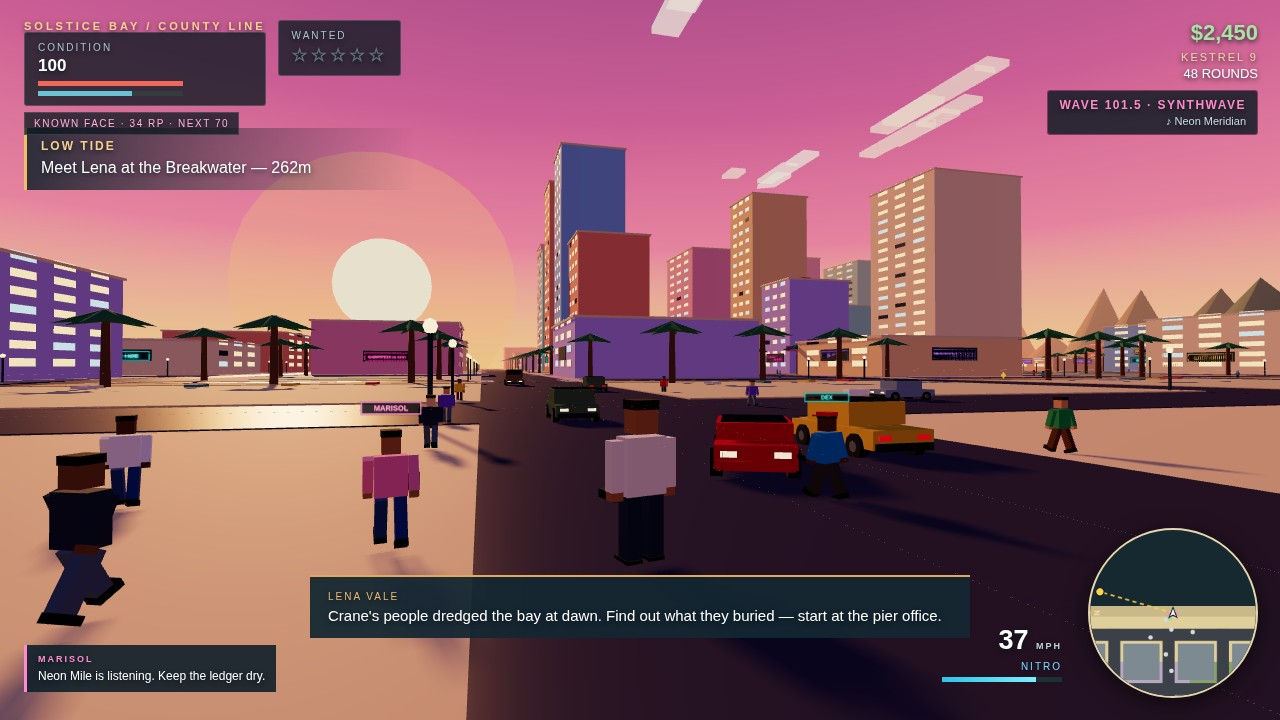
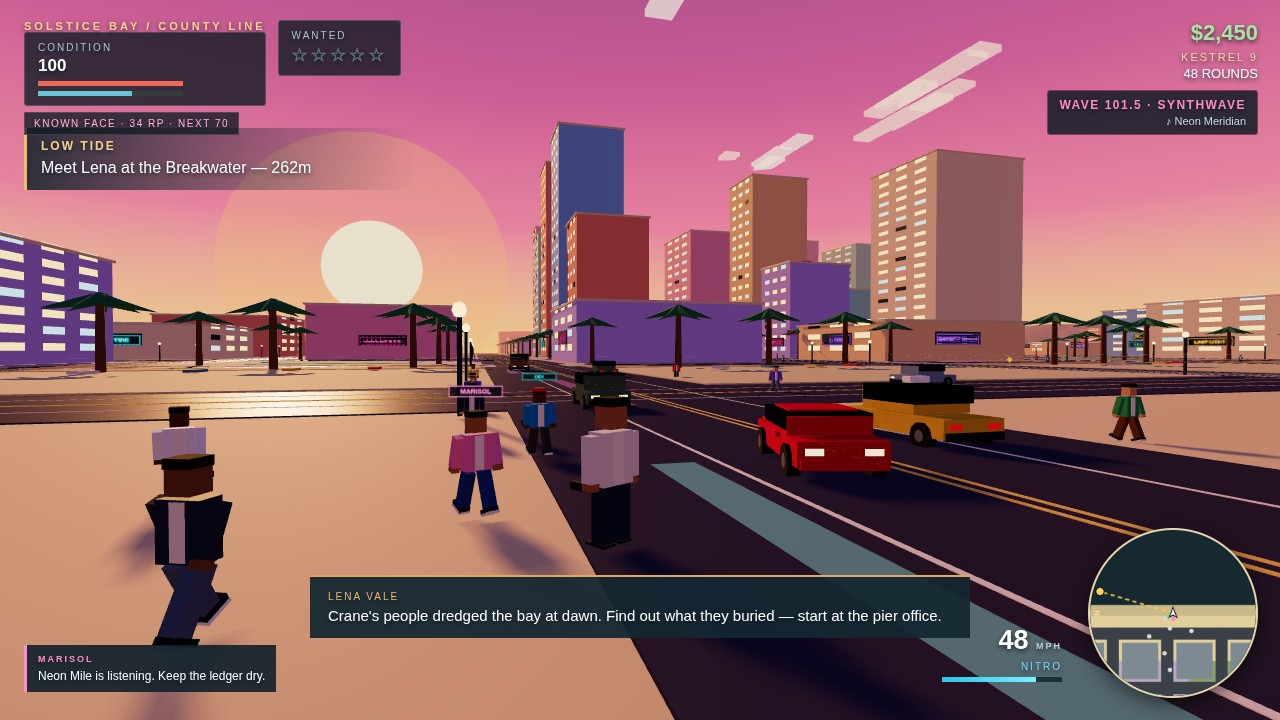
v4 visual overhaul: road markings, wet neon reflections, sculpted vehicles, harbor ridge skyline

diff --git a/game/src/city.js b/game/src/city.js
@@ -47,18 +47,38 @@ export function makeCity(scene){
  // polished-road streaks: narrow, translucent neon catches on the busiest boulevard
  // make wet pavement visible in the contact sheet without obscuring traffic silhouettes
  const roadGlow=[0xff4fa0,0x3fe8e0,0xffb347,0xb46bff];
+ const streakMat=(color)=>new THREE.MeshBasicMaterial({color,transparent:true,opacity:.42,depthWrite:false});
+ // v4: streaks ride at .086, above the .08 asphalt top, so the wet-neon glow is actually visible
  for(let row=0;row<8;row++){
   const z=roadAt(row)+LANE;
   for(let col=0;col<8;col++){
-   const streak=new THREE.Mesh(new THREE.PlaneGeometry(10+col*2,.5),new THREE.MeshBasicMaterial({color:roadGlow[(row+col)%roadGlow.length],transparent:true,opacity:.34,depthWrite:false}));
-   streak.rotation.x=-Math.PI/2;streak.position.set(30+col*42,.075,z+(col%2?1.3:-1.3));streak.userData.cityStatic=true;root.add(streak);
+   const streak=new THREE.Mesh(new THREE.PlaneGeometry(14+col*2,1.1),streakMat(roadGlow[(row+col)%roadGlow.length]));
+   streak.rotation.x=-Math.PI/2;streak.position.set(30+col*42,.086,z+(col%2?1.3:-1.3));streak.userData.cityStatic=true;root.add(streak);
   }
  }
- // distant hills are layered silhouettes made of irregular facets
- for(let i=0;i<13;i++){const h=30+rng()*65;const m=new THREE.Mesh(new THREE.ConeGeometry(25+rng()*30,h,7),mat([0x668365,0x75916a,0x8b986a][i%3]));m.position.set(-390+i*45,h/2-1,-290-rng()*80);m.rotation.z=(rng()-.5)*.15;root.add(m);}
+ // bright wet-neon reflections along the cover (road 5) and chase (road 4) corridors
+ for(const [road,x0,x1] of [[5,220,330],[4,70,145]]){
+  const z=roadAt(road);let k=0;
+  for(let x=x0;x<=x1;x+=11,k++){
+   for(const side of [-2.2,2.2]){
+    const streak=new THREE.Mesh(new THREE.PlaneGeometry(13,1.2),streakMat(roadGlow[(k+(side>0?1:0))%roadGlow.length]));
+    streak.rotation.x=-Math.PI/2;streak.position.set(x,.086,z+side);streak.userData.cityStatic=true;root.add(streak);
+   }
+  }
+ }
+ // v4 horizon: smooth layered coastal ridges in dusk haze instead of sharp pyramid cones
+ for(let i=0;i<13;i++){const r=38+rng()*26;const m=new THREE.Mesh(new THREE.SphereGeometry(r,14,10),mat([0x5e547a,0x6e6088,0x7e6d8e][i%3]));m.scale.set(1.7,.55,1.1);m.position.set(-390+i*45+(rng()-.5)*8,-2-rng()*3,-310-rng()*70);root.add(m);}
+ // western harbor channel behind the docks: water + sunset shimmer so Shot 3 reads as a
+ // working port on the bay (tops sit above the grass slab so they are never buried)
+ addBox(root,-140,-.5,-275,260,.56,65,mats.water);
+ const harborGlow=new THREE.Mesh(new THREE.PlaneGeometry(220,38),new THREE.MeshBasicMaterial({color:0xffa86a,transparent:true,opacity:.32,depthWrite:false}));
+ harborGlow.rotation.x=-Math.PI/2;harborGlow.position.set(-140,.08,-268);root.add(harborGlow);
  // street and intersections
  for(let i=0;i<=BLOCKS;i++){const c=roadAt(i);addBox(root,c,0,0,ROAD,.08,720,mats.asphalt);addBox(root,0,0,c,720,.08,ROAD,mats.asphalt);
-  for(let offset=-2;offset<=2;offset+=4){addBox(root,c+offset,.06,0,.12,.01,690,mats.line);addBox(root,0,.06,c+offset,690,.01,.12,mats.line);}
+  // v4 highway markings above the asphalt: twin center yellows + white outer lane lines
+  addBox(root,c-.22,.084,0,.14,.015,690,mats.yellow);addBox(root,c+.22,.084,0,.14,.015,690,mats.yellow);
+  addBox(root,0,.084,c-.22,690,.015,.14,mats.yellow);addBox(root,0,.084,c+.22,690,.015,.14,mats.yellow);
+  for(const offset of [-3.8,3.8]){addBox(root,c+offset,.084,0,.12,.015,690,mats.white);addBox(root,0,.084,c+offset,690,.015,.12,mats.white);}
   for(let j=0;j<9;j++){const z=roadAt(j);if(i<8){addBox(root,c,0,z+ROAD/2+1.1,ROAD,.18,2.2,mats.side);addBox(root,c,0,z-ROAD/2-1.1,ROAD,.18,2.2,mats.side);} }
  }
  // blocks: each gets sidewalk pads, varied buildings, rooftop detail, plazas and palms
@@ -98,7 +118,7 @@ export function makeCity(scene){
  // landmarks, street furniture and painted crosswalks
  for(let i=0;i<=BLOCKS;i++)for(let j=0;j<=BLOCKS;j++){
   const x=roadAt(i),z=roadAt(j);
-  if(i<8&&j<8){for(let s=0;s<5;s++){addBox(root,x-6+s*3,.08,z-7,1.3,.04,2.2,mats.white);addBox(root,x-6+s*3,.08,z+7,1.3,.04,2.2,mats.white);}}
+  if(i<8&&j<8){for(let s=0;s<5;s++){addBox(root,x-6+s*3,.086,z-7,1.3,.04,2.2,mats.white);addBox(root,x-6+s*3,.086,z+7,1.3,.04,2.2,mats.white);}}
   for(const side of [-1,1]){const px=x+side*10,pz=z+10;addBox(root,px,.1,pz,.2,4,.2,mats.dark);const lamp=new THREE.Mesh(new THREE.SphereGeometry(.35,6,4),mats.lampGlow);lamp.position.set(px,.4+4,pz);lamp.castShadow=false;lamp.userData.cityStatic=true;root.add(lamp);}
  }
  // Civic landmarks and location signage
@@ -133,7 +153,7 @@ function mergeGeometries(geos){
  out.setAttribute('uv',new THREE.BufferAttribute(uv,2));
  return out;
 }
-function palm(scene,x,y,z,m){addCylinder(scene,x,y,z,.55,9,m.palm,7);const top=new THREE.Vector3(x,y+8.7,z);for(let i=0;i<7;i++){const a=i*Math.PI*2/7;const end=new THREE.Vector3(x+Math.cos(a)*5,y+7.5,z+Math.sin(a)*5);const dir=end.clone().sub(top);const leaf=new THREE.Mesh(new THREE.ConeGeometry(.8,dir.length(),5),m.leaf);leaf.position.copy(top).add(end).multiplyScalar(.5);leaf.quaternion.setFromUnitVectors(new THREE.Vector3(0,1,0),dir.normalize());leaf.castShadow=true;scene.add(leaf);}}
+function palm(scene,x,y,z,m){addCylinder(scene,x,y,z,.55,9,m.palm,7);const top=new THREE.Vector3(x,y+8.7,z);for(let i=0;i<9;i++){const a=i*Math.PI*2/9;const end=new THREE.Vector3(x+Math.cos(a)*5.4,y+7.3,z+Math.sin(a)*5.4);const dir=end.clone().sub(top);const leaf=new THREE.Mesh(new THREE.ConeGeometry(.8,dir.length(),5),m.leaf);leaf.position.copy(top).add(end).multiplyScalar(.5);leaf.quaternion.setFromUnitVectors(new THREE.Vector3(0,1,0),dir.normalize());leaf.castShadow=true;scene.add(leaf);}addBox(scene,x,y+8.2,z,.55,.45,.55,m.palm);}
 function building(scene,x,z,w,h,d,wall,m,isTall){solid(x,z,w,d);addBox(scene,x,.2,z,w,h,d,wall);addBox(scene,x,.2+h,z,w+1,.5,d+1,mat(0xe2ceb0));
  // window grid: mostly lit warm at dusk, a cool share and a dark share for rhythm
  const winMat=()=>{const r=rng();return r<.68?m.windowLit:r<.9?m.windowCool:m.windowDark;};

diff --git a/game/src/photo.js b/game/src/photo.js
@@ -34,16 +34,15 @@ export function stagePhoto(name){
  if(name==='street'){
   // golden hour on Marigold Mile: player beside a red Solara GT, dense traffic and
   // pedestrians, neon storefronts, downtown towers ahead, full HUD + objective + dialogue
-  place(316.8,149.8,-Math.PI/2);cam.pitch=.11;cam.dist=8.2;cam.aimY=2.8;cam.baseY=1.8;cam.yaw=Math.PI/2-.26;cam.fovWish=62;cam.aimDX=-1.2;cam.aimDZ=-.3;
-  // Solara waits ahead-left, nose angled back toward the lens for a 3/4 hero read
-  const solara=put('sports',310.2,145.0,-Math.PI/2-.42,null,17);
-  // Keep Remy beside the moving GT for the cover: the avatar silhouette sells the
-  // on-foot half of the open world while the adjacent live car proves driveability.
-  p.mesh.visible=true;p.mesh.position.set(316.8,0,149.8);p.mesh.rotation.y=-Math.PI/2+.25;
-  p.mesh.scale.setScalar(1.3);
+  // v4 cover: the red Solara GT owns the center-right lane above the double-yellow wet
+  // neon boulevard; Remy + crew hold the lit sidewalk edge at foreground-left, angled
+  // 3/4 toward the lens so sunglasses, jacket trim and sidearm all read
+  place(315.4,151.6,-Math.PI/2+.55);cam.pitch=.12;cam.dist=8.4;cam.aimY=2.6;cam.baseY=1.75;cam.yaw=Math.PI/2-.22;cam.fovWish=60;cam.aimDX=-1.4;cam.aimDZ=-.8;
+  const solara=put('sports',310.8,145.6,-Math.PI/2-.28,null,22);
+  p.mesh.visible=true;p.mesh.scale.setScalar(1.22);
   // force the cover car red for a strong focal silhouette (clone so shared paints stay put)
   solara.mesh.traverse(o=>{if(o.isMesh&&o.material&&o.material.isMeshStandardMaterial&&o.material.metalness===.2){o.material=o.material.clone();o.material.color.setHex(0xe8452e);}});
-  state.inCar=world.cars.length-1;state.carSpeed=17;state.carHeading=-Math.PI/2;
+  state.inCar=world.cars.length-1;state.carSpeed=22;state.carHeading=-Math.PI/2;
   // In the cover tableau Remy walks alongside the staged GT rather than disappearing
   // into its driver seat; the chase frame remains explicitly in-car.
   p.speed=0;
@@ -62,7 +61,7 @@ export function stagePhoto(name){
   photoMission(0);setPhotoObjective('LOW TIDE','Meet Lena at the Breakwater — 262m');
   state.cash=2450;state.foot.health=100;state.foot.armor=65;
   state.respect=34;state.weapon=1;state.nitro=78;
-  crewAt('marisol',315.1,153.2,-Math.PI/2+.2);crewAt('dex',314.0,145.2,-Math.PI/2+.35);
+  crewAt('marisol',313.2,153.4,-Math.PI/2+.45);crewAt('dex',307.8,151.8,-Math.PI/2+.25);
   state.districtRep={...state.districtRep,'Marigold Mile':44};
   state.crewSpeaker='MARISOL';state.crewBark='Neon Mile is listening. Keep the ledger dry.';state.crewBarkT=999;
   state.radioOn=true;state.radioStation=0;state.radioTrack=STATIONS[0].tracks[1];
@@ -77,7 +76,7 @@ export function stagePhoto(name){
   const car=put('sports',108,72,Math.PI/2,null,38);
   car.mesh.traverse(o=>{if(o.isMesh&&o.material&&o.material.isMeshStandardMaterial&&o.material.metalness===.2){o.material=o.material.clone();o.material.color.setHex(0xe8452e);}});
   nosOn(car);state.nosActive=true;state.nitro=62;
-  const nf=car.mesh.userData.flames;if(nf)nf.scale.setScalar(2.1); // long twin burn trails
+  const nf=car.mesh.userData.flames;if(nf)nf.scale.set(1.15,1.15,1.25); // twin burn stays locked to the exhaust tips
   state.inCar=world.cars.length-1;state.carSpeed=38;state.carHeading=Math.PI/2;p.mesh.visible=false;
   state.heat=82;state.wanted=4;state.lastCrimeT=state.time;state.photoNoDamage=true;state.photoFreeze=true;
   state.heliChatter='AIR ONE: Searchlight on the Solara. Ground units, close the net.';state.heliChatterT=999;

diff --git a/game/src/vehicles.js b/game/src/vehicles.js
@@ -21,9 +21,16 @@ export function buildVehicle(type){
  addBox(g,0,.35,0,w,.55,l,body);
  addBox(g,0,.35+h*.42,l*.02,w*.98,h*.5,l*(type==='truck'?.42:.52),body);
  const cabinL=l*(type==='truck'?.36:.44),cabinZ=type==='truck'?l*.22:0;
- addBox(g,0,.35+h*.62,cabinZ,w*.86,h*.34,cabinL,glassMat);
+ // v4 glasshouse: wider, taller and longer than the painted cabin so side, front and
+ // rear windows all read outside the body box
+ addBox(g,0,.35+h*.62,cabinZ,w*1.01,h*.36,l*(type==='truck'?.42:.52)*1.02,glassMat);
  if(type==='truck'){addBox(g,0,.9,-l*.22,w*.96,.5,l*.45,body);addBox(g,0,1.42,-l*.22,w*.9,.06,l*.42,paint(0x3a3f45));}
- if(type==='sports'){addBox(g,0,.9,-l*.42,w*.9,.08,.5,body);addBox(g,-w*.32,.6,-l*.42,.1,.35,.1,body);addBox(g,w*.32,.6,-l*.42,.1,.35,.1,body);}
+ if(type==='sports'){addBox(g,0,.9,-l*.42,w*.9,.08,.5,body);addBox(g,-w*.32,.6,-l*.42,.1,.35,.1,body);addBox(g,w*.32,.6,-l*.42,.1,.35,.1,body);
+  // v4 Solara GT sculpt: full-width glowing LED tail bar, twin exhausts, mirrors, carbon roof
+  addBox(g,0,.64,-l/2-.03,w*.84,.1,.06,tailMat);
+  for(const s of [-1,1]){addBox(g,s*w*.28,.3,-l/2-.08,.12,.12,.16,wheelMat);addBox(g,s*(w*.52),.78,l*.12,.14,.1,.18,body);}
+  addBox(g,0,.35+h*.98,-.05,w*.82,.05,cabinL*.82,paint(0x181c24));
+ }
  // bumpers, lights
  addBox(g,0,.32,l/2,w*.94,.22,.15,paint(0x2a2e33));addBox(g,0,.32,-l/2,w*.94,.22,.15,paint(0x2a2e33));
  for(const s of [-1,1]){addBox(g,s*w*.32,.62,l/2+.02,w*.2,.14,.06,headMat);addBox(g,s*w*.32,.62,-l/2-.02,w*.2,.14,.06,tailMat);}
@@ -45,15 +52,22 @@ export function buildVehicle(type){
   const lb=addBox(g,w*.22,.35+h*1.02,l*.02,w*.3,.16,.5,blue);
   lightbar={red:lr.material,blue:lb.material};
   addBox(g,0,.58,l/2+.05,w*.5,.3,.1,whiteMat);
+  // v4 Interceptor sculpt: white doors, front push-bar, additive strobe halos on the bar
+  addBox(g,0,.42,0,w*1.02,.42,l*.42,whiteMat);
+  addBox(g,0,.42,l/2+.1,w*.56,.34,.12,paint(0x141c26));
+  for(const [s,color] of [[-1,0xff3040],[1,0x3080ff]]){
+   const halo=new THREE.Mesh(new THREE.SphereGeometry(.42,8,6),new THREE.MeshBasicMaterial({color,transparent:true,opacity:.38,depthWrite:false,blending:THREE.AdditiveBlending}));
+   halo.position.set(s*w*.22,.35+h*1.05,l*.02);g.add(halo);
+  }
  }
  if(type==='taxi'){addBox(g,0,.35+h*1.02,0,.7,.2,.35,whiteMat);}
  // nitro exhaust flames: twin cones at the rear, shown only while boosting
  const flames=new THREE.Group();
  for(const s of [-1,1]){
   const outer=new THREE.Mesh(new THREE.ConeGeometry(.16,.9,6),flameMat);
-  outer.rotation.x=-Math.PI/2;outer.position.set(s*w*.28,.42,-l/2-.45);flames.add(outer);
+  outer.rotation.x=-Math.PI/2;outer.position.set(s*w*.28,.34,-l/2-.38);flames.add(outer);
   const core=new THREE.Mesh(new THREE.ConeGeometry(.08,.55,6),flameCoreMat);
-  core.rotation.x=-Math.PI/2;core.position.set(s*w*.28,.42,-l/2-.28);flames.add(core);
+  core.rotation.x=-Math.PI/2;core.position.set(s*w*.28,.34,-l/2-.24);flames.add(core);
  }
  flames.visible=false;g.add(flames);
  g.userData={type,spec,color,wheels,lightbar,flames};

diff --git a/game/src/peds.js b/game/src/peds.js
@@ -8,14 +8,16 @@ const SHIRT=[0xe8452e,0x2e8fc4,0xf2c12e,0x7a4fc0,0x3da35a,0xf28ab0,0xececec,0x33
 const PANTS=[0x2c3e50,0x4a4440,0x5d6d7e,0x33518a,0x704214];
 const hairMat=new THREE.MeshStandardMaterial({color:0x2a2118,roughness:.9});
 const mats={};
-function m(color){if(!mats[color])mats[color]=new THREE.MeshStandardMaterial({color,roughness:.85});return mats[color];}
+function m(color){if(!mats[color])mats[color]=new THREE.MeshStandardMaterial({color,roughness:.62});return mats[color];}
 function part(parent,w,h,d,color,x,y,z){const mesh=new THREE.Mesh(new THREE.BoxGeometry(w,h,d),typeof color==='number'?m(color):color);mesh.position.set(x,y,z);mesh.castShadow=true;parent.add(mesh);return mesh;}
 export function buildHuman(opts={}){
  const skin=opts.skin??rng.pick(SKIN),shirt=opts.shirt??rng.pick(SHIRT),pants=opts.pants??rng.pick(PANTS);
  const g=new THREE.Group();
  const torso=part(g,.46,.6,.26,shirt,0,1.05,0);
+ part(g,.16,.56,.27,0xf4ead8,0,1.05,0); // open-jacket chest trim catches the warm dusk key light
  const head=part(g,.26,.28,.26,skin,0,1.52,0);
  part(g,.28,.1,.28,hairMat===undefined?0x2a2118:hairMat,0,1.68,0);
+ part(g,.24,.06,.05,0x141820,0,1.54,.13); // dark sunglasses visor reads from front and 3/4
  const armL=new THREE.Group(),armR=new THREE.Group();
  armL.position.set(-.31,1.3,0);armR.position.set(.31,1.3,0);
  part(armL,.14,.52,.16,shirt,0,-.24,0);part(armR,.14,.52,.16,shirt,0,-.24,0);
@@ -25,6 +27,7 @@ export function buildHuman(opts={}){
  legL.position.set(-.13,.75,0);legR.position.set(.13,.75,0);
  part(legL,.17,.66,.2,pants,0,-.34,0);part(legR,.17,.66,.2,pants,0,-.34,0);
  part(legL,.18,.1,.3,m(0x22262a),0,-.7,.04);part(legR,.18,.1,.3,m(0x22262a),0,-.7,.04);
+ part(legL,.19,.04,.31,0xededed,0,-.74,.04);part(legR,.19,.04,.31,0xededed,0,-.74,.04); // white sneaker soles
  g.add(legL,legR);
  if(opts.cap){part(g,.3,.08,.3,m(opts.cap),0,1.72,0);part(g,.3,.03,.14,m(opts.cap),0,1.68,.18);}
  if(opts.gun){const gun=part(armR,.07,.09,.34,m(0x1a1d22),0,-.56,.14);gun.name='sidearm';}

diff --git a/main.ts b/main.ts
@@ -1,7 +1,9 @@
-// Deterministic make.fun entrypoint for Solstice Bay — Last Light (v3 city-life pass).
-// Copies the static v3 browser game (named crew, district standing, photo-mode tableaux,
-// helicopter, radio, garage, weapon wheel, 9-mission arc) and its four captures, then
-// lets the kit's unchanged dossier builder describe exactly those bytes.
+// Deterministic make.fun entrypoint for Solstice Bay — Last Light (v4 visual overhaul).
+// Copies the static v4 browser game — twin-yellow highway markings and white lane lines
+// above the asphalt, wet-neon boulevard reflections on the cover and chase corridors,
+// sculpted Solara GT / Interceptor bodies, and a coastal harbor-ridge skyline — plus the
+// four restaged captures (crew, AIR ONE, docks, firefight), then lets the kit's unchanged
+// dossier builder describe exactly those bytes.
 // The copy is byte-for-byte: no transforms, no timestamps in content, so two runs with
 // the same MAKEFUN_OUTPUT_DIR produce identical trees (verified with diff -r).
 import { cpSync, existsSync, mkdirSync, writeFileSync } from 'node:fs';
@@ -26,4 +28,4 @@ writeFileSync(join(output, 'dossier.json'), buildDossier(output, {
   game_max_bytes: 50331648,
   game_path_max_bytes: 1000,
 }));
-console.log('Solstice Bay — Last Light: output ready at ' + output);
+console.log('Solstice Bay — Last Light v4 (highway markings, wet neon reflections, sculpted cars, harbor ridges): output ready at ' + output);

diff --git a/README.md b/README.md
@@ -6,20 +6,20 @@
 
 **Solstice Bay** is an original open-world crime game that runs entirely in a desktop browser from static files — no build step, no network requests, no borrowed assets. You play Remy Cortez, a wheelman pulled back into the life when Silas Crane's syndicate squeezes the city he grew up in.
 
-The city is yours to roam: art-deco pastel towers downtown under a neon-sunset sky, a palm-lined beach and boardwalk, an industrial port of cranes and container stacks, quiet suburbs, and green hills with a lookout over the whole bay. Walk it, steal any car on the street, and drive — traffic, pedestrians, and a five-star police force that escalates from patrols to pursuits to roadblocks all react to what you do. Push the heat to three stars and **AIR ONE**, the police helicopter, takes to the sky with a searchlight and radio chatter; duck under a pier deck or into your garage to shake it.
+The city is yours to roam: art-deco pastel towers downtown under a neon-sunset sky, a palm-lined beach and boardwalk, an industrial port of cranes and container stacks opening onto a shimmering harbor channel backed by soft coastal ridges, and quiet suburbs. Walk it, steal any car on the street, and drive — traffic, pedestrians, and a five-star police force that escalates from patrols to pursuits to roadblocks all react to what you do. Push the heat to three stars and **AIR ONE**, the police helicopter, takes to the sky with a searchlight and radio chatter; duck under a pier deck or into your garage to shake it.
 
 - Nine story missions with dialogue, waypoints, chases, shootouts, a garage heist, a crew rescue and a helicopter-escape finale
 - Two named crew companions, Marisol and Dex: follow on foot, cover Remy in shootouts, and trade neighborhood barks
 - Seven districts remember local respect, announce arrivals with their own color banners, and unlock small neighborhood perks
-- Low-angle photo staging puts Remy, a glossy Solara GT, busy streets and the sunset skyline together in the cover frame
+- Low-angle photo staging puts the sculpted red Solara GT on a twin-yellow wet-neon boulevard with Remy and crew on the lit sidewalk edge, all under the sunset skyline
 - RESPECT ranks from STREET NAME to BAY LEGEND, each unlocking real perks (faster nitro regen, tougher bail deals)
 - Your own garage safehouse: store a ride, repair it, save the game, and hide from AIR ONE
 - Car radio with three original procedural stations — WAVE 101.5 synthwave, FUEGO 99 latin-funk, DRIFT FM lo-fi hop — cycled with R, all synthesized live
 - NOS boost on Shift with a HUD meter and twin exhaust flames; hold Q for the weapon wheel
 - Side work: street races, taxi fares, and rampages, with cash and weapon unlocks
-- Fists, pistol, SMG and shotgun; sedans, sports cars, pickups, taxis and police cruisers
+- Fists, pistol, SMG and shotgun; sculpted sedans, sports cars with full-width LED tail bars, twin exhausts and carbon roofs, pickups, taxis, and Interceptor cruisers with white doors, push-bars and red/blue strobe halos
 - Full HUD: health, armor, cash, wanted stars, weapon/ammo, respect, nitro, radio chip, AIR ONE chatter, speedometer and a live rotating minimap with pursuit blips
-- Neon storefront signage with sidewalk spill, glowing windows and street lamps, wet-look asphalt, long golden-hour shadows, mission banners with cash/respect tallies, damage vignette and bust cinematics
+- Twin-yellow highway center lines and white outer lane markings with crisp crosswalks, wet-neon boulevard reflections, neon storefront signage with sidewalk spill, glowing windows and street lamps, long golden-hour shadows, mission banners with cash/respect tallies, damage vignette and bust cinematics
 - Procedural WebAudio engine notes, sirens, gunfire, rotor wash and three original radio soundtracks — zero audio files
 - Start screen, pause menu, hospital/police respawn, and save/load through localStorage
 
